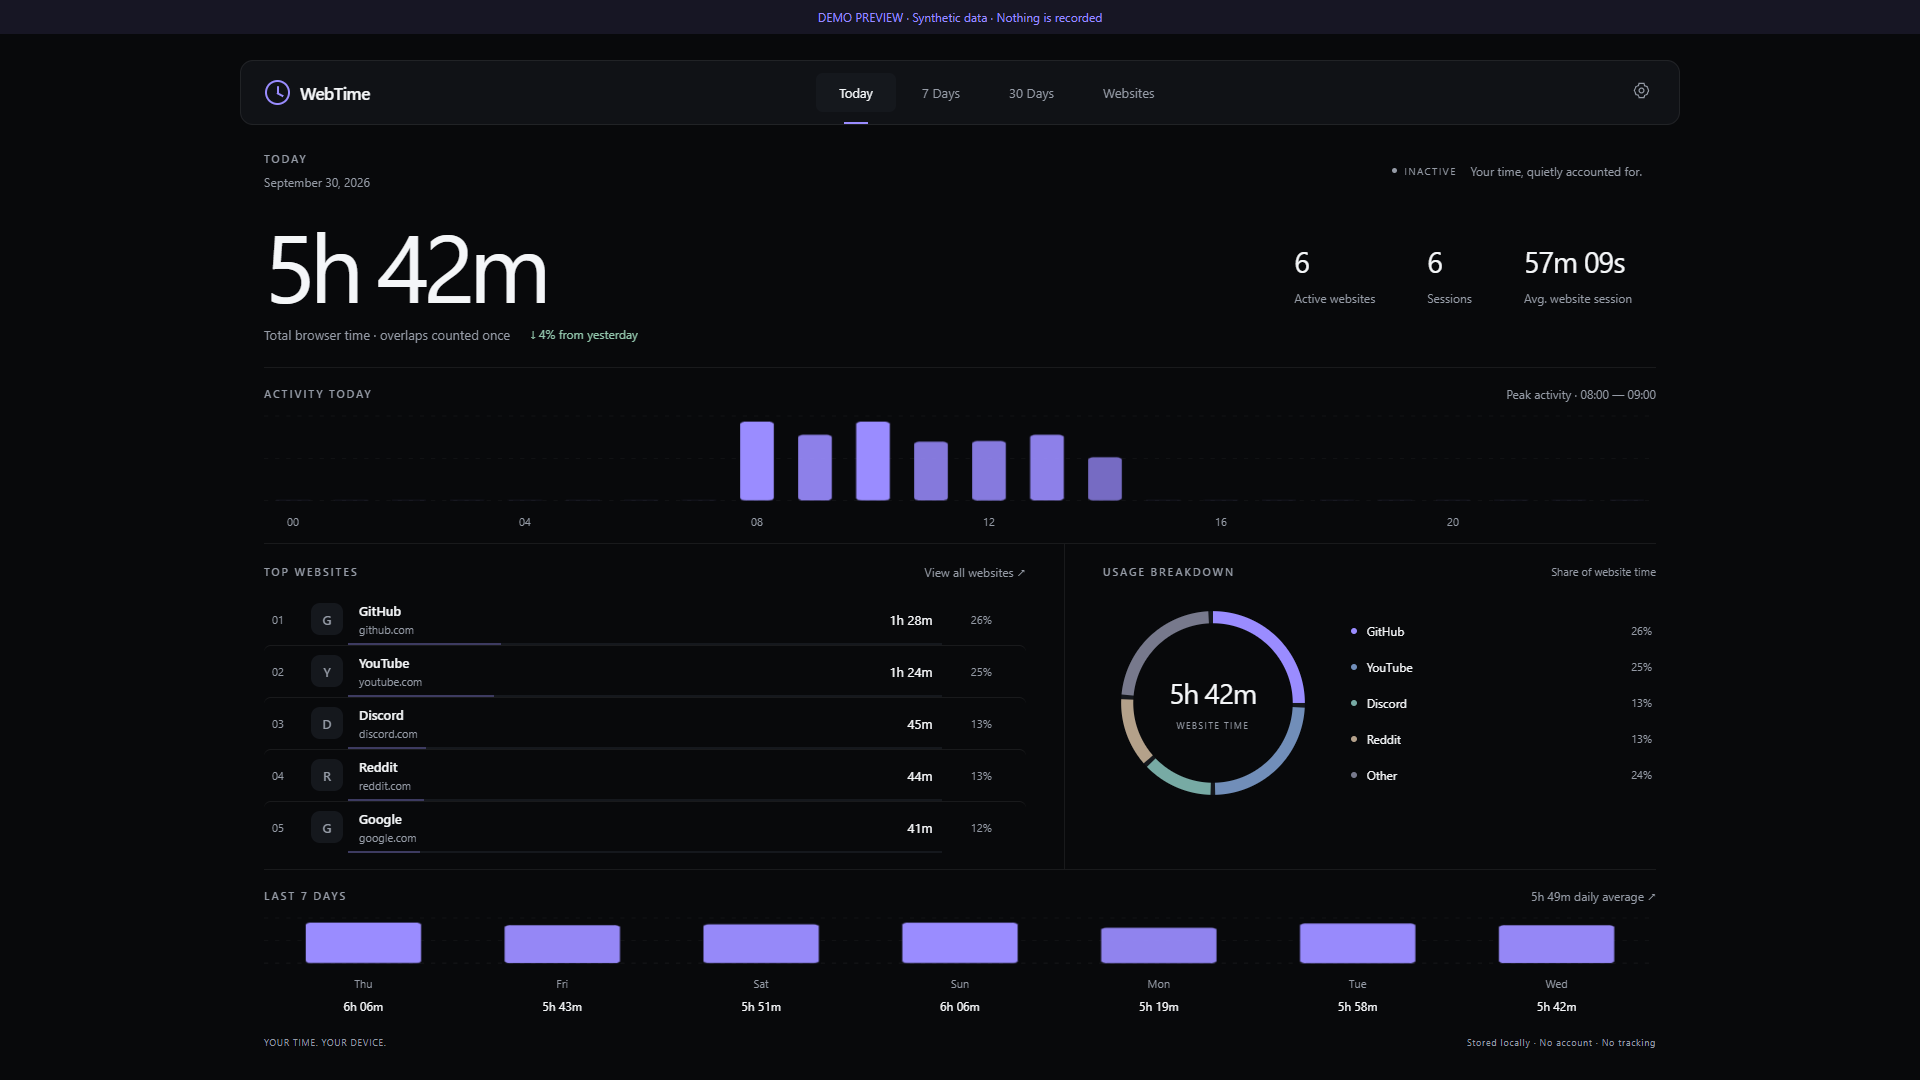
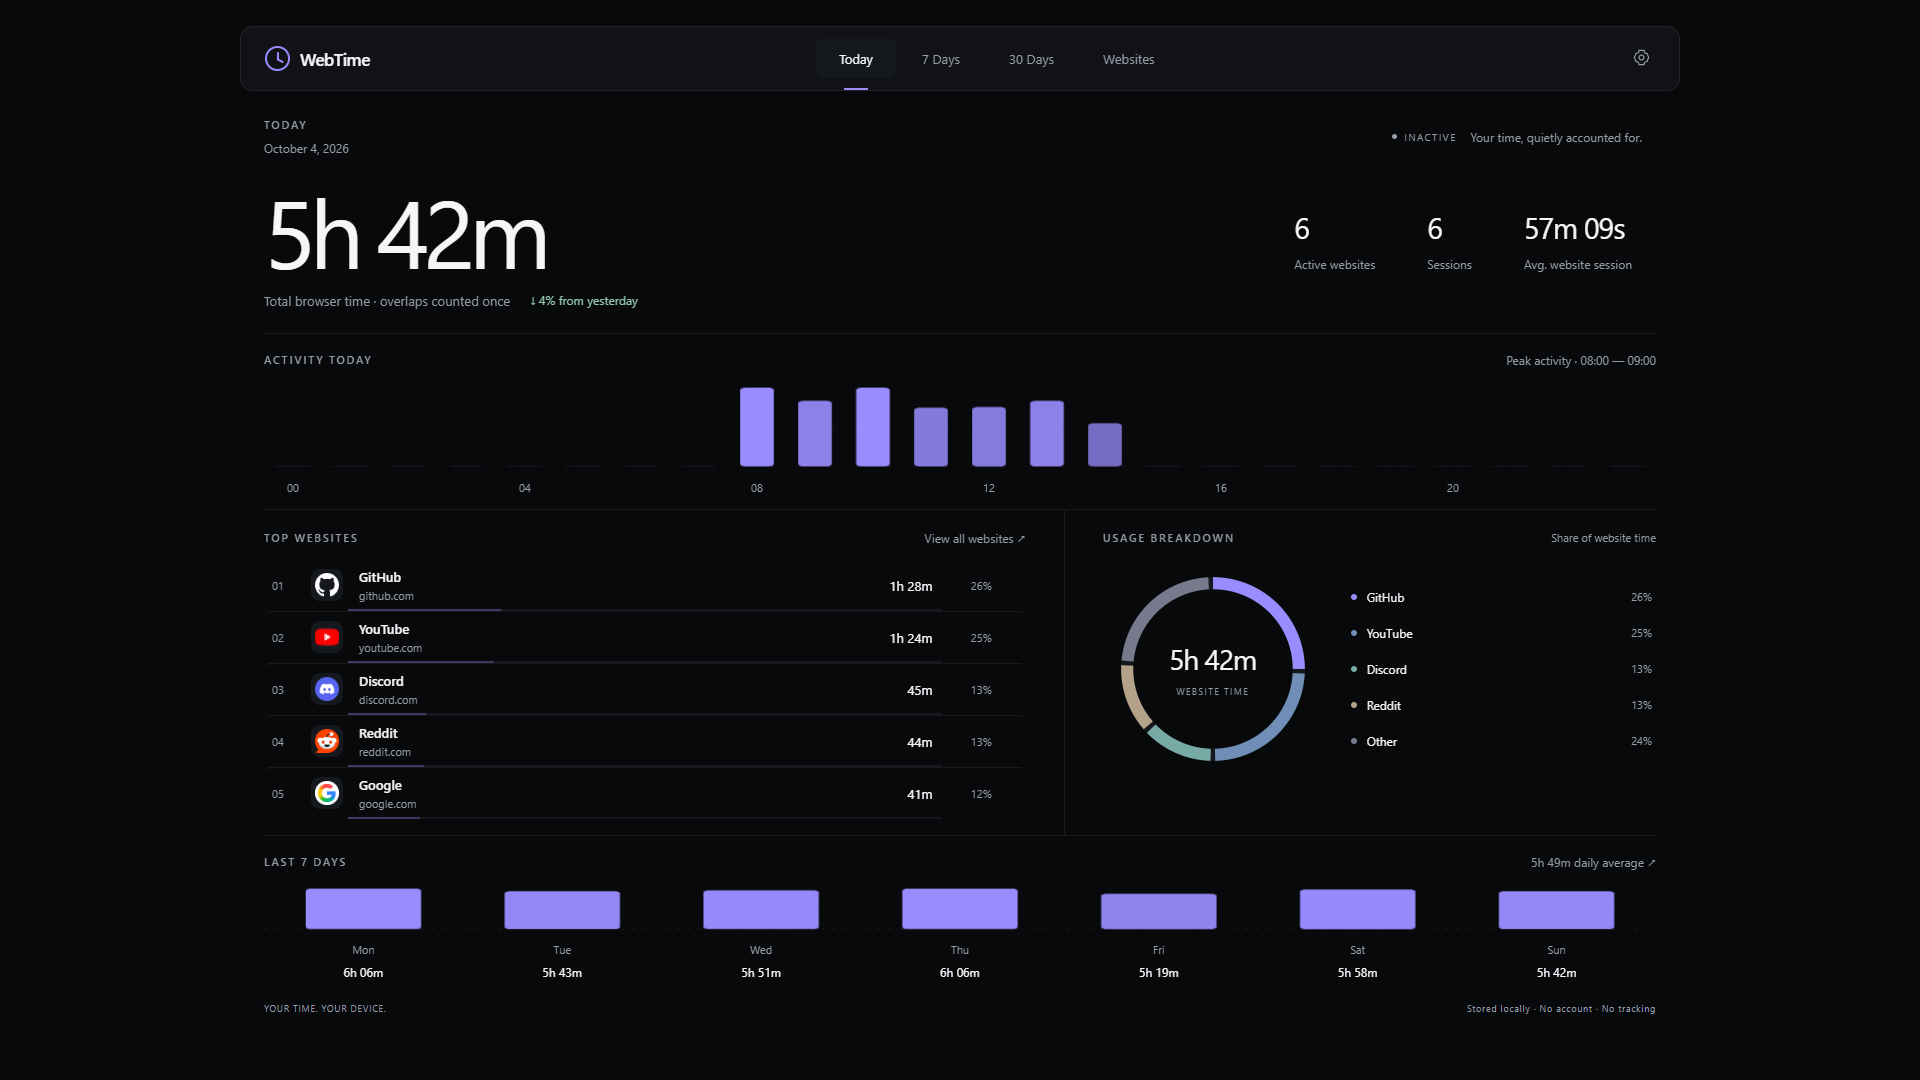
feat: merge subdomains by registrable domain
* Normalize hostnames to their registrable domain using the Public Suffix List
* Merge usage time and statistics across subdomains of the same website
* Properly handle multi-level public suffixes such as `.co.uk`, `.com.cn`, and `.github.io`
* Preserve the original hostname for URL navigation and website details
* Keep existing tracking behavior unchanged for domains that cannot be normalized

diff --git a/tests/worker.test.js b/tests/worker.test.js
@@ -178,6 +178,77 @@ test("open-tab tracking: twenty idle minutes, concurrent domains, deduplication,
     await send({ type: "clear" });
     assert.deepEqual(local.store.data.domains, {});
     assert.equal(local.store.data.activity.totalSeconds, 0);
+    // Blocking is a filter on the existing concurrent tracker, not a reset.
+    const localHosts = [
+      "192.168.0.6",
+      "192.168.1.1",
+      "10.0.0.1",
+      "172.16.0.1",
+      "127.0.0.1",
+      "localhost",
+      "[::1]",
+      "[fc00::1]",
+      "[fe80::1]",
+    ];
+    const publicHosts = ["youtube.com", "github.com", "bilibili.com"];
+    tabs = [...localHosts, ...publicHosts].map((host, id) => ({
+      id,
+      windowId: 1,
+      url: `http://${host}/`,
+    }));
+    const setting = async (enabled) => {
+      const response = await send({
+        type: "settings",
+        settings: { ...(await snap()).data.settings, blockLocalIPs: enabled },
+      });
+      assert(response.ok, response.error);
+      return response.result;
+    };
+    result = await setting(true);
+    const started = result.live.domains.find(
+      (d) => d.domain === "youtube.com",
+    ).started;
+    now += 20000;
+    result = await snap();
+    assert.deepEqual(
+      Object.keys(result.data.domains).sort(),
+      publicHosts.sort(),
+    );
+    assert.equal(result.data.activity.totalSeconds, 20);
+    await setting(false);
+    now += 20000;
+    result = await snap();
+    for (const host of localHosts)
+      assert.equal(result.data.domains[host].totalSeconds, 20, host);
+    const history = structuredClone(result.data.domains["192.168.0.6"]);
+    await setting(true);
+    now += 20000;
+    result = await snap();
+    assert.deepEqual(result.data.domains["192.168.0.6"], history);
+    assert.equal(
+      result.live.domains.find((d) => d.domain === "youtube.com").started,
+      started,
+    );
+    for (const host of publicHosts)
+      assert.equal(result.data.domains[host].totalSeconds, 60);
+    // Navigate the only open tab: public -> local -> public.
+    tabs = [{ id: 1, windowId: 1, url: "https://youtube.com/" }];
+    await chrome.tabs.onUpdated.emit(1, { url: tabs[0].url });
+    now += 20000;
+    await snap();
+    tabs[0].url = "http://192.168.0.6/";
+    await chrome.tabs.onUpdated.emit(1, { url: tabs[0].url });
+    const stopped = (await snap()).data.activity.totalSeconds;
+    now += 20000;
+    result = await snap();
+    assert.equal(result.live.status, "inactive");
+    assert.equal(result.data.activity.totalSeconds, stopped);
+    assert.deepEqual(result.data.domains["192.168.0.6"], history);
+    tabs[0].url = "https://youtube.com/";
+    await chrome.tabs.onUpdated.emit(1, { url: tabs[0].url });
+    now += 20000;
+    result = await snap();
+    assert.equal(result.data.activity.totalSeconds, stopped + 20);
   } finally {
     Date.now = realNow;
     globalThis.setInterval = realInterval;

diff --git a/tracking/core.js b/tracking/core.js
@@ -3,6 +3,7 @@ export const DEFAULT_SETTINGS = {
   theme: "dark",
   animation: "full",
   language: "system",
+  blockLocalIPs: false,
 };
 export const freshData = () => ({
   version: 2,
@@ -22,6 +23,36 @@ export function normalizeDomain(url) {
   } catch {
     return null;
   }
+}
+// Receives the URL parser's normalized hostname; never resolves DNS names.
+export function isLocalDomain(domain) {
+  if (domain === "localhost") return true;
+  if (!domain) return false;
+  const host = domain.replace(/^\[|\]$/g, "");
+  if (host === "::1") return true;
+  if (host.includes(":")) {
+    const first = parseInt(host.split(":")[0], 16);
+    if ((first & 0xfe00) === 0xfc00 || (first & 0xffc0) === 0xfe80) return true;
+    // URL canonicalizes IPv4-mapped IPv6 to two hexadecimal groups.
+    const mapped = host.match(/^::ffff:([0-9a-f]{1,4}):([0-9a-f]{1,4})$/i);
+    if (!mapped) return false;
+    const high = parseInt(mapped[1], 16),
+      low = parseInt(mapped[2], 16);
+    return isLocalDomain(
+      `${high >>> 8}.${high & 255}.${low >>> 8}.${low & 255}`,
+    );
+  }
+  if (!/^\d+\.\d+\.\d+\.\d+$/.test(host)) return false;
+  const octets = host.split(".").map(Number);
+  if (octets.some((n) => n > 255)) return false;
+  const [a, b] = octets;
+  return (
+    a === 127 ||
+    a === 10 ||
+    (a === 172 && b >= 16 && b <= 31) ||
+    (a === 192 && b === 168) ||
+    (a === 169 && b === 254)
+  );
 }
 export function dayKey(time = Date.now()) {
   const d = new Date(time);
@@ -189,6 +220,7 @@ export function validateSettings(s) {
     !s ||
     !["dark", "light", "system"].includes(s.theme) ||
     !["full", "reduced", "off"].includes(s.animation) ||
+    (s.blockLocalIPs !== undefined && typeof s.blockLocalIPs !== "boolean") ||
     (s.language !== undefined &&
       !["system", "en", "zh", "ja", "ko", "de", "it", "ru", "es"].includes(
         s.language,
@@ -199,6 +231,7 @@ export function validateSettings(s) {
     theme: s.theme,
     animation: s.animation,
     language: s.language ?? "system",
+    blockLocalIPs: s.blockLocalIPs ?? false,
   };
 }
 export function validateBackup(input) {

diff --git a/dashboard/app.js b/dashboard/app.js
@@ -91,7 +91,7 @@ function detail() {
     return '<p class="empty">This website has no recorded data. <a href="#websites">Back to websites</a></p>';
   const month = dates(30),
     summary = summarize(state.snapshot.data, month, domain);
-  return `<a class="text-link" href="#websites">← Websites</a><div class="detail-title">${icon(domain)}<div><h1>${escape(site.title)}</h1><p class="muted" style="margin-top:6px">${escape(domain)}</p></div></div><div class="detail-stats">${[1, 7, 30].map((count) => `<div><strong>${duration(summarize(state.snapshot.data, dates(count), domain).total)}</strong><span>${count === 1 ? "Today" : `Last ${count} days`}</span></div>`).join("")}</div><section class="activity"><div class="section-head"><h2>ACTIVITY · LAST 30 DAYS</h2><span class="muted">${duration(summary.total / 30)} daily average</span></div>${bars(summary.daily, month)}</section><section class="rhythm-section"><div class="section-head"><h2>BROWSER RHYTHM</h2><span class="muted">Last 7 days</span></div>${rhythm({ domains: { [domain]: site } }, dates(7))}</section>`;
+  return `<a class="text-link" href="#websites">← Websites</a><a class="detail-title" href="${escape("https://" + domain + "/")}" target="_blank" rel="noopener noreferrer">${icon(domain)}<div><h1>${escape(site.title)}</h1><p class="muted" style="margin-top:6px">${escape(domain)}</p></div></a><div class="detail-stats">${[1, 7, 30].map((count) => `<div><strong>${duration(summarize(state.snapshot.data, dates(count), domain).total)}</strong><span>${count === 1 ? "Today" : `Last ${count} days`}</span></div>`).join("")}</div><section class="activity"><div class="section-head"><h2>ACTIVITY · LAST 30 DAYS</h2><span class="muted">${duration(summary.total / 30)} daily average</span></div>${bars(summary.daily, month)}</section><section class="rhythm-section"><div class="section-head"><h2>BROWSER RHYTHM</h2><span class="muted">Last 7 days</span></div>${rhythm({ domains: { [domain]: site } }, dates(7))}</section>`;
 }
 function navigation() {
   const page = state.page === "detail" ? "websites" : state.page;

diff --git a/shared/messages.js b/shared/messages.js
@@ -1,5 +1,7 @@
 // English source text is the message key. Columns: zh, ja, ko, de, it, ru, es.
 const rows = `
+Block Local IPs|屏蔽本地 IP|ローカルIPを除外|로컬 IP 제외|Lokale IPs ausschließen|Escludi IP locali|Исключать локальные IP|Excluir IP locales
+Exclude local and private addresses from future tracking. Existing history is kept.|不再统计本地和私有地址，已有历史记录保持不变。|ローカル・プライベートアドレスを今後の計測から除外します。履歴は保持されます。|로컬 및 사설 주소를 앞으로 측정하지 않습니다. 기존 기록은 유지됩니다.|Lokale und private Adressen künftig nicht erfassen. Bestehende Daten bleiben erhalten.|Escludi gli indirizzi locali e privati dal conteggio futuro. La cronologia viene conservata.|Не учитывать локальные и частные адреса в дальнейшем. История сохраняется.|Excluye las direcciones locales y privadas del registro futuro. Se conserva el historial.
 Invalid or incompatible WebTime backup. Your data has not been changed.|WebTime 备份无效或不兼容，你的数据未被更改。|無効または非対応のWebTimeバックアップです。データは変更されていません。|잘못되었거나 호환되지 않는 WebTime 백업입니다. 데이터는 변경되지 않았습니다.|Ungültige oder inkompatible WebTime-Sicherung. Deine Daten bleiben unverändert.|Backup WebTime non valido o incompatibile. I tuoi dati non sono stati modificati.|Некорректная или несовместимая копия WebTime. Данные не изменены.|Copia de WebTime no válida o incompatible. Tus datos no se han modificado.
 Settings|设置|設定|설정|Einstellungen|Impostazioni|Настройки|Ajustes
 Language|语言|言語|언어|Sprache|Lingua|Язык|Idioma

diff --git a/tests/local-ips.test.js b/tests/local-ips.test.js
@@ -1,0 +1,66 @@
+import test from "node:test";
+import assert from "node:assert/strict";
+import {
+  isLocalDomain,
+  normalizeDomain,
+  freshData,
+  validateSettings,
+  validateBackup,
+} from "../tracking/core.js";
+
+test("local address ranges, IPv6 and public boundary addresses", () => {
+  for (const host of [
+    "192.168.0.6",
+    "192.168.1.1",
+    "10.0.0.1",
+    "10.10.20.30",
+    "172.16.0.1",
+    "172.31.255.255",
+    "127.0.0.1",
+    "127.0.0.2",
+    "localhost",
+    "[::1]",
+    "[fc00::1]",
+    "[fdff::1]",
+    "[fe80::1]",
+    "[febf::1]",
+    "[::ffff:192.168.0.6]",
+    "169.254.1.1",
+  ])
+    assert.equal(isLocalDomain(normalizeDomain(`http://${host}/`)), true, host);
+  for (const host of [
+    "youtube.com",
+    "github.com",
+    "bilibili.com",
+    "localhost.example.com",
+    "192.168.0.6.example.com",
+    "172.15.255.255",
+    "172.32.0.0",
+    "192.169.0.1",
+    "126.255.255.255",
+    "11.0.0.1",
+    "8.8.8.8",
+    "[2001:4860:4860::8888]",
+    "[fbff::1]",
+    "[fec0::1]",
+    "[::ffff:8.8.8.8]",
+  ])
+    assert.equal(
+      isLocalDomain(normalizeDomain(`https://${host}/`)),
+      false,
+      host,
+    );
+});
+test("local blocking defaults off, validates boolean, and survives backups", () => {
+  assert.equal(freshData().settings.blockLocalIPs, false);
+  assert.equal(
+    validateSettings({ theme: "dark", animation: "full" }).blockLocalIPs,
+    false,
+  );
+  assert.throws(() =>
+    validateSettings({ ...freshData().settings, blockLocalIPs: "false" }),
+  );
+  const data = freshData();
+  data.settings.blockLocalIPs = true;
+  assert.equal(validateBackup(data).settings.blockLocalIPs, true);
+});

diff --git a/settings/app.js b/settings/app.js
@@ -13,6 +13,7 @@ let settings,
 function showSettings(s) {
   settings = s;
   applyAppearance(s);
+  $("#blockLocalIPs").checked = s.blockLocalIPs ?? false;
   for (const key of ["theme", "animation", "language"])
     $("#" + key).value = s[key] ?? "system";
 }
@@ -27,13 +28,13 @@ async function initialize() {
     errorMessage(error);
   }
 }
-for (const key of ["theme", "animation", "language"])
+for (const key of ["theme", "animation", "language", "blockLocalIPs"])
   $("#" + key).addEventListener("change", async (e) => {
     e.target.disabled = true;
     try {
       const next = {
         ...settings,
-        [key]: e.target.value,
+        [key]: key === "blockLocalIPs" ? e.target.checked : e.target.value,
       };
       const snap = await request("settings", { settings: next });
       showSettings(snap.data.settings);

diff --git a/background/service-worker.js b/background/service-worker.js
@@ -1,6 +1,7 @@
 import {
   Tracker,
   normalizeDomain,
+  isLocalDomain,
   freshData,
   validateBackup,
   validateSettings,
@@ -43,7 +44,11 @@ async function active() {
       !tab.frozen &&
       normalizeDomain(tab.url),
   );
-  const domains = [...new Set(tabs.map((tab) => normalizeDomain(tab.url)))];
+  const domains = [
+    ...new Set(tabs.map((tab) => normalizeDomain(tab.url))),
+  ].filter(
+    (domain) => !tracker.data.settings.blockLocalIPs || !isLocalDomain(domain),
+  );
   return { domains, status: "inactive" };
 }
 async function reconcile(force = false) {

diff --git a/settings/index.html b/settings/index.html
@@ -57,6 +57,14 @@
       </section>
       <section>
         <h2>TRACKING</h2>
+        <label class="setting"
+          ><span
+            >Block Local IPs<small
+              >Exclude local and private addresses from future tracking.
+              Existing history is kept.</small
+            ></span
+          ><input id="blockLocalIPs" type="checkbox"
+        /></label>
         <p class="note">
           All open, loaded websites are counted, including background tabs and
           windows. Keyboard inactivity and window focus do not pause tracking.

diff --git a/storage/storage.js b/storage/storage.js
@@ -3,6 +3,7 @@ export async function load() {
   const { store } = await chrome.storage.local.get("store");
   if (store?.data.version === 1) store.data = validateBackup(store.data);
   if (store) store.data.settings.language ??= "system";
+  if (store) store.data.settings.blockLocalIPs ??= false;
   return store || { data: freshData(), checkpoint: null };
 }
 // One atomic key prevents totals and their checkpoint diverging after termination.

diff --git a/dashboard/style.css b/dashboard/style.css
@@ -411,10 +411,20 @@ footer {
   align-items: center;
   gap: 16px;
   margin: 28px 0;
+  border-radius: 9px;
+  cursor: pointer;
+}
+.detail-title:hover,
+.detail-title:focus-visible {
+  background: var(--surface2);
 }
 .detail-title .favicon {
   width: 48px;
   height: 48px;
+}
+.detail-title .favicon img {
+  width: calc(100% - 8px);
+  height: calc(100% - 8px);
 }
 .detail-title h1 {
   font-weight: 450;

diff --git a/shared/base.css b/shared/base.css
@@ -190,6 +190,9 @@ h2,
   font-weight: 600;
   color: var(--muted);
 }
+.favicon:has(img) .favicon-letter {
+  visibility: hidden;
+}
 .status {
   font-size: 10px;
   letter-spacing: 0.13em;

diff --git a/CHANGELOG.md b/CHANGELOG.md
@@ -2,6 +2,14 @@
 
 ## Unreleased
 
+### 1.2.0
+
+- Fix detail-page favicon sizing and centering, and hide letter placeholders while favicon images are present.
+- Open website detail titles in a new tab using the current domain and HTTPS.
+- Add Block Local IPs, disabled by default, with immediate IPv4/IPv6 filtering and preserved historical data.
+- Refresh README screenshots with native Chrome favicons and synthetic statistics.
+- Add regression coverage for address boundaries, settings persistence, live filtering, image proportions and new-tab links.
+
 ### 1.1.0
 
 - Add eight interface languages with system-language detection, a saved manual override, localized dates/time units, and live settings synchronization across open extension pages.
